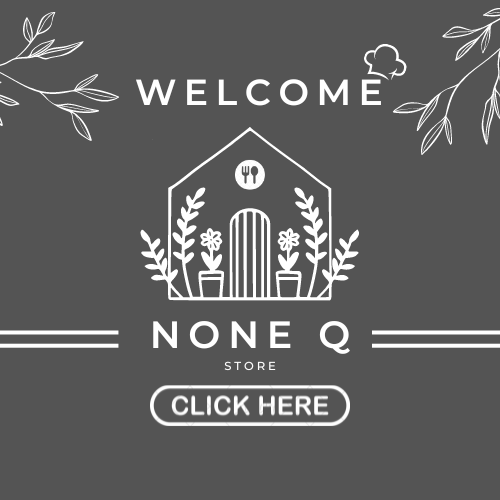
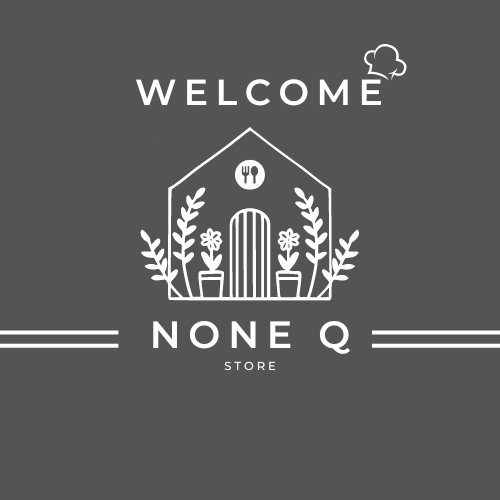
update

diff --git a/order.html b/order.html
@@ -14,9 +14,8 @@
     <div id="app">
         <nav class="navbar navbar-light sticky-top border-bottom bg-dark">
             <div class="container-fluid">
-                  <!-- logo -->
                     <div :class="center" @click="outStore">
-                        <img src="image/Logo.png" style="max-height:7.5vh; width: auto;">
+                        <img src="image/Logo.png" style="max-height:7.5vh; width: auto; border-radius: 50%;">
                     </div>
                     <template v-if="loginstatus==true">
                         <div class="d-flex" :class="center" @click="goLogin">
@@ -38,11 +37,10 @@
             <div class="column"></div>
 
             <div class="column is-8 pt-6">
-                    <h1  class="is-size-4 mb-4">All Products ({{menu.length}})</h1>
+                    <h1  class="title is-size-4 mb-4 ">Menu</h1>
                 <div class="container is-max-desktop">
                     <div class="is-multiline columns is-variable is-2">
 
-                        <!-- Card element start here------------------------------------------>
                         <div id="card_product" class="column is-one-quarter" v-for="product in menu">
                             <div class="card">
                                 <div class="card-image">
@@ -59,8 +57,7 @@
 
                                     <div style="display: flex;justify-content: space-between;">
 
-                                        <!-- >>>>>ไอคอนรูปตะกร้า <<<<<<,s----------------------------------------->
-                                        <div class="icon is-size-5" @click="addToOrder(product)">
+                                        <div class="icon is-size-5" @click="addToOrder(product)" @click="loginCheck()">
                                             <i class="fas fa-shopping-cart"></i>
                                         </div>
 
@@ -74,14 +71,13 @@
             </div>
 
 
-            <!-- Column แสดงตะกร้า--------------------------------------------------->
             <div class="column is-3 pt-6 pl-0 pr-5">
                 <div style="display: flex;justify-content: space-between;">
-                    <span class="is-size-4 mb-4">Order ({{order.length}})</span>
+                    <span class="title is-size-4 mb-4">รายการอาหารที่สั่ง</span>
                     <a @click="order = []" class=" mb-4 button">Clear</a>
                 </div>
 
-                <!-- Card element start here ------------------------------------------>
+
                 <div v-for="(product, index) in order" class="card mb-4">
                     <div class="card-content p-0">
                         <div class="media">
@@ -94,11 +90,9 @@
                                 <p class="is-5">{{product.title}}</p>
                                 <div style="display: flex;justify-content: space-between;">
                                     <div>
-                                        <!-- จำนวนสินค้า----------------------------------------------- -->
                                         <span>x{{product.quantity}}</span>
                                     </div>
                                     <div>
-                                        <!-- icon รูปถังขยะ------------------------------------------- -->
                                         <span class="icon mr-2" @click="removeFromOrder(product)">
                                             <i class="far fa-trash-alt"></i>
                                         </span>
@@ -108,8 +102,6 @@
                         </div>
                     </div>
                 </div>
-
-                <!-- ปุ่ม Checkout ------------------------------------------------------------ -->
                 <a class="button is-dark mt-3" style="width: 100%;color: white;" @click="menuConfirm()">Confirm</a>
             </div>
         </div>

diff --git a/index.html b/index.html
@@ -13,9 +13,8 @@
     <div id="app">
         <nav class="navbar navbar-light sticky-top border-bottom bg-dark">
             <div class="container-fluid">
-                  <!-- logo -->
                     <div :class="center" @click="outStore">
-                        <img src="image/Logo.png" style="max-height:7.5vh; width: auto;">
+                        <img src="image/Logo.png" style="max-height:7.5vh; width: auto; border-radius: 50%;">
                     </div>
                     <template v-if="loginstatus==true">
                         <div class="d-flex" :class="center" @click="goProfile">
@@ -32,11 +31,11 @@
                     </template>
             </div>
         </nav>
-        <main>
+        
             <div class="container-fluid" :class="center" style="background-color: rgb(84, 84, 84);" @click="enterStore">
-                <img src="image/NoneQ.png" alt="">
+                <img style="width: 47%;" src="image/NoneQ.png" alt="">
             </div>
-        </main>
+        
     </div>
     <script src="https://cdn.jsdelivr.net/npm/vue@2/dist/vue.js"></script>
     <script>

diff --git a/booking.html b/booking.html
@@ -45,7 +45,7 @@
             <div class="container-fluid">
                   <!-- logo -->
                     <div :class="center" @click="outStore">
-                        <img src="image/Logo.png" style="max-height:7.5vh; width: auto;">
+                        <img src="image/Logo.png" style="max-height:7.5vh; width: auto; border-radius: 50%;">
                     </div>
                     <template v-if="loginstatus==true">
                         <div class="d-flex" :class="center" @click="goProfile">

diff --git a/instore.html b/instore.html
@@ -48,7 +48,7 @@
             <div class="container-fluid">
                   <!-- logo -->
                     <div :class="center" @click="outStore">
-                        <img src="image/Logo.png" style="max-height:7.5vh; width: auto;">
+                        <img src="image/Logo.png" style="max-height:7.5vh; width: auto; border-radius: 50%;">
                     </div>
                     <template v-if="loginstatus==true">
                         <div class="d-flex" :class="center" @click="goProfile">

diff --git a/login.html b/login.html
@@ -15,7 +15,7 @@
             <div class="container-fluid">
                   <!-- logo -->
                     <div :class="center" @click="outStore">
-                        <img src="image/Logo.png" style="max-height:7.5vh; width: auto;">
+                        <img src="image/Logo.png" style="max-height:7.5vh; width: auto; border-radius: 50%;">
                     </div>
                     <template v-if="loginstatus==true">
                         <div class="d-flex" :class="center" @click="goProfile">

diff --git a/profile.html b/profile.html
@@ -15,7 +15,7 @@
             <div class="container-fluid">
                   <!-- logo -->
                     <div :class="center" @click="outStore">
-                        <img src="image/Logo.png" style="max-height:7.5vh; width: auto;">
+                        <img src="image/Logo.png" style="max-height:7.5vh; width: auto; border-radius: 50%;">
                     </div>
                     <template v-if="loginstatus==true">
                         <div class="d-flex" :class="center" @click="goProfile">

diff --git a/register.html b/register.html
@@ -15,7 +15,7 @@
             <div class="container-fluid">
                   <!-- logo -->
                     <div :class="center" @click="outStore">
-                        <img src="image/Logo.png" style="max-height:7.5vh; width: auto;">
+                        <img src="image/Logo.png" style="max-height:7.5vh; width: auto; border-radius: 50%;">
                     </div>
                     <template v-if="loginstatus==true">
                         <div class="d-flex" :class="center" @click="goProfile">
